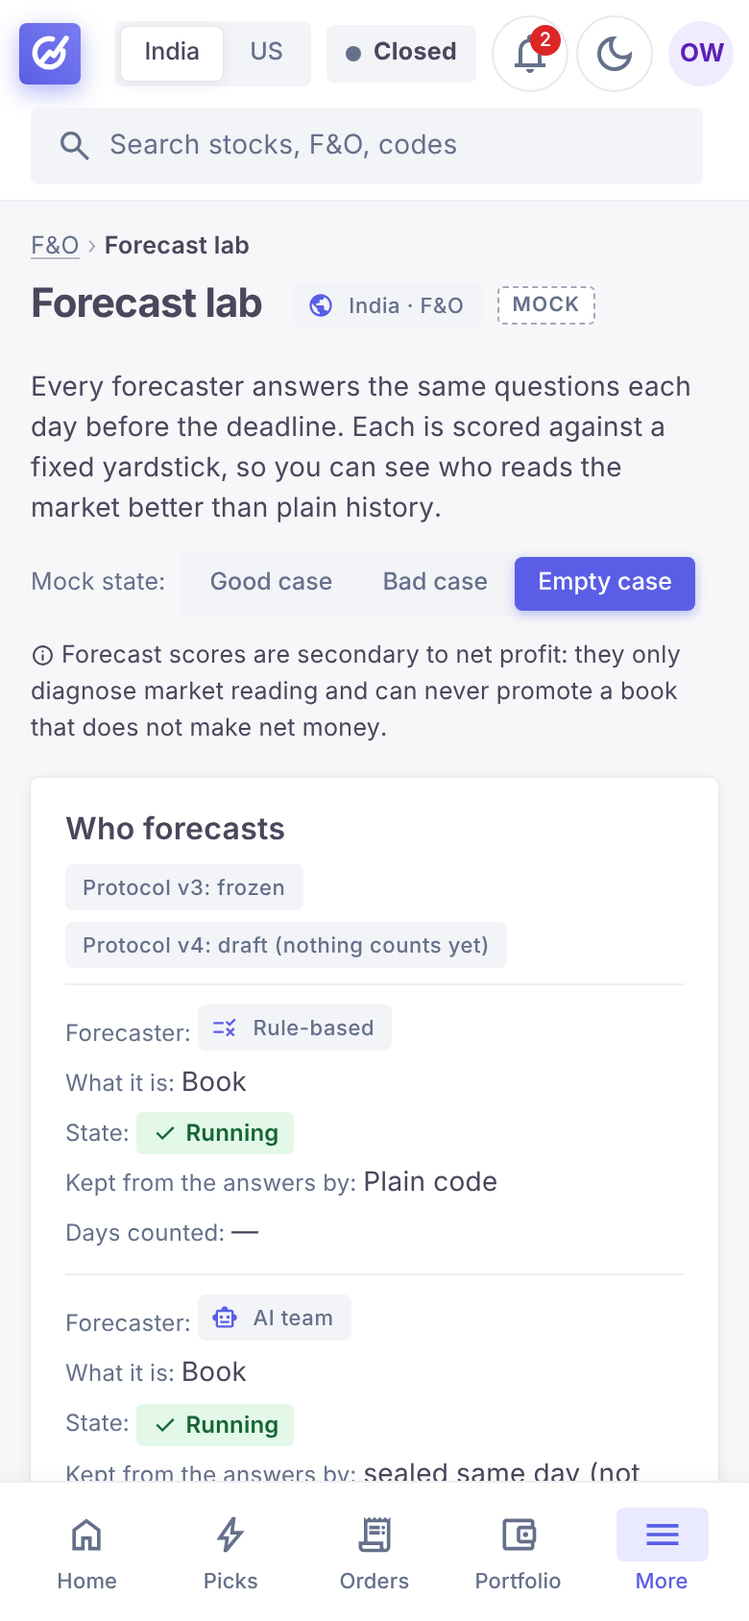
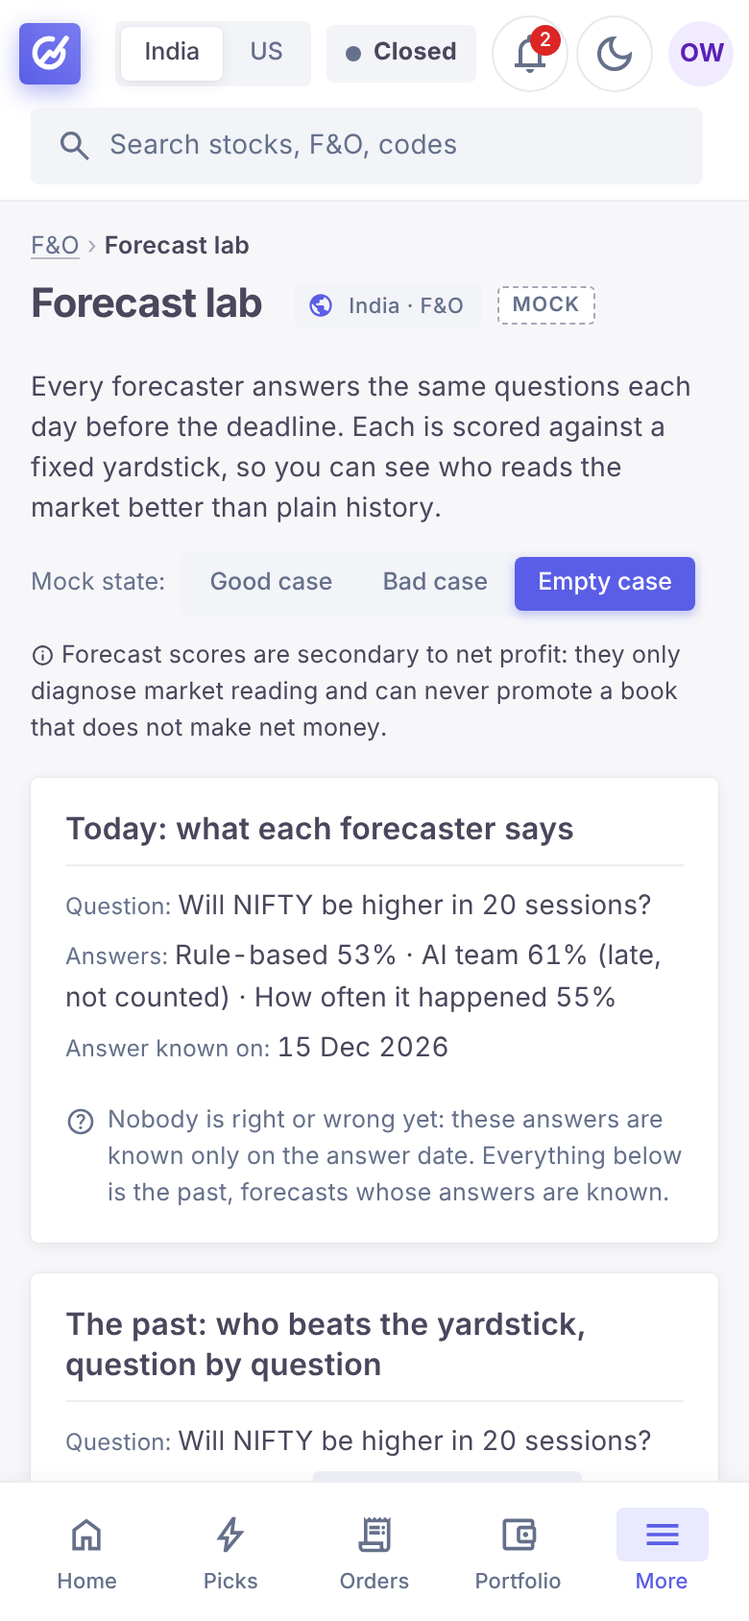
Mockup 37: bring back the owner's 13 Oct views the catalog can feed (judge 217 should-fix 2)
Today's forecasts on top and the past below; who beats the yardstick question by question; forecasters ranked within
each question; the test's numbers folded "for the curious". notes.md lists every 13 Oct request as kept, changed or
dropped (period chooser, race chart, "what made the difference": no contract field yet) with why, and a 2.9 proposal.

Claude-Session: https://claude.ai/code/session_01XFXpbkyixX7SuXeQCp5EnX

diff --git a/design/mockups/37-forecasts/page.html b/design/mockups/37-forecasts/page.html
@@ -2175,7 +2175,7 @@ return {mount, el, icon, svgEl, money, num, sgn, delta, P, st};
 </script>
 <script>
 /* 37-forecasts page runtime: the Forecast lab (forecasters, their questions and scores), drawn from the F&O data catalog's Mock
-   examples (contract 2.8.0; story W3). Split by purpose: 1 state and helpers, 2 the page, 9 mount.
+   examples (contract 2.8.0; story W3). Split by purpose: 1 state and helpers, 2 today, 3 who beats the yardstick, 4 each question, 5 the forecasters, 9 mount.
    The screen computes nothing beyond drawing: every figure is the payload's. Tokens only; never colour alone. */
 let KEY = null;
 /* URL: s (a state key of data.json); the default is the good case */
@@ -2212,26 +2212,38 @@ function srcLine(c, op, tip) {
     c.el('span', {class: 'mb-asof', 'data-tip': 'api/examples/fno-screens.json, operation ' + op}, c.icon('schedule'), 'F&O data catalog: ' + op),
     c.el('span', {class: 'mb-tag mock', 'data-tip': tip}, 'Mock: made up'));
 }
-/* The standing line, the protocols and the forecasters: who answers, how each is kept from seeing outcomes, and how
-   many days counted (a missing day is shown, never treated as zero skill). */
-const STATE = {running: ['success', 'check', 'Running'], not_running: ['neutral', 'timer', 'Not running'], not_started: ['neutral', 'remove', 'Not started']};
-const KIND = {family: 'Book', baseline: 'Yardstick', weather: 'Weather', house: 'The card\'s forecast'};
-function fname(id) { const f = pay().forecasters.find(x => x.id === id); return f ? f.name : id; }
-function forecastersPart(main, c) {
-  const {el} = c, P = pay();
-  main.append(el('p', {class: 'small', style: 'margin:12px 0 0'}, c.icon('info'), ' ', P.standing),
-    el('div', {class: 'stack'}, sec(c, 'Who forecasts', el('div', {class: 'chips'}, ...P.protocols.map(p => el('span', {class: 'md-chip small', 'data-tip': p.questions.join(', ')}, `Protocol ${p.version}: ${p.status === 'frozen' ? 'frozen' : 'draft (nothing counts yet)'}`))),
-      el('div', {class: 'md-table-wrap'}, el('table', {class: 'md-table tstack'},
-        el('thead', {}, el('tr', {}, ...['Forecaster', 'What it is', 'State', 'Kept from the answers by', 'Days counted'].map(h => el('th', {scope: 'col'}, h)))),
-        el('tbody', {}, ...P.forecasters.map(f => { const [cls, g, w] = STATE[f.status], v = f.coverage;
-          return el('tr', {}, el('td', {'data-k': 'Forecaster'}, f.family ? family(c, f.family) : f.name), el('td', {'data-k': 'What it is'}, KIND[f.kind]),
-            el('td', {'data-k': 'State'}, el('span', {class: 'mb-label ' + cls}, c.icon(g), w)),
-            el('td', {'data-k': 'Kept from the answers by'}, f.isolation === 'code' ? 'Plain code' : f.isolation_label || 'Full isolation'),
-            el('td', {'data-k': 'Days counted'}, v ? `${v.counted_days} of ${v.pack_days}` : '—', v ? el('small', {}, `${v.missing_days} missing · ${v.late_days} late · ${v.unscored_days} not scored`) : null)); })))),
-      howto(c, 'A late or missing forecast is not counted and is shown here, never filled in. "Sealed same day" means an AI book commits to its answer before the deadline; it is not full isolation.'))));
+/* Today's forecasts on top, the past below, each said plainly (owner, 13 Oct 2026, second feedback round). */
+function todayPart(main, c) {
+  const {el} = c, qs = pay().questions.filter(q => q.today);
+  main.append(el('div', {class: 'stack'}, sec(c, 'Today: what each forecaster says',
+    qs.length ? el('div', {class: 'md-table-wrap'}, el('table', {class: 'md-table tstack'},
+      el('thead', {}, el('tr', {}, ...['Question', 'Answers', 'Answer known on'].map(h => el('th', {scope: 'col'}, h)))),
+      el('tbody', {}, ...qs.map(q => el('tr', {}, el('td', {'data-k': 'Question'}, q.plain),
+        el('td', {'data-k': 'Answers'}, q.today.values.map(v => `${fname(v.forecaster)} ${answer(q, v)}${VSTATUS[v.status]}`).join(' · ')),
+        el('td', {'data-k': 'Answer known on'}, dlabel(q.today.answer_on))))))) : el('p', {class: 'empty muted'}, 'No forecast was made today.'),
+    howto(c, 'Nobody is right or wrong yet: these answers are known only on the answer date. Everything below is the past, forecasts whose answers are known.'))));
 }
-/* One card per question: today's answers, each forecaster's average miss score, the comparison against the yardstick
-   with its verdict, and when it could settle. Waiting and not-started questions say why. */
+/* Which forecaster beats the yardstick on which question (owner, 13 Oct 2026): one row per question, from the
+   backend's own verdicts. No rank across questions: Brier and QLIKE scores are on different scales. */
+function namesWith(S, verdict) { return S.comparisons.filter(m => m.verdict === verdict).map(m => fname(m.forecaster)); }
+function bestCell(c, S) {
+  const better = namesWith(S, 'better'), worse = namesWith(S, 'worse');
+  if (!S.comparisons.length) return c.el('span', {class: 'mb-label neutral'}, c.icon('timer'), 'Not tested yet');
+  return c.el('span', {}, better.length ? c.el('span', {class: 'mb-label success'}, c.icon('check'), 'Better: ' + better.join(', ')) : c.el('span', {class: 'mb-label neutral'}, c.icon('trending_flat'), 'Nobody better yet'),
+    worse.length ? c.el('small', {}, 'Worse: ' + worse.join(', ')) : null);
+}
+function bestPart(main, c) {
+  const {el} = c, qs = pay().questions.filter(q => q.scores);
+  main.append(el('div', {class: 'stack'}, sec(c, 'The past: who beats the yardstick, question by question',
+    qs.length ? el('div', {class: 'md-table-wrap'}, el('table', {class: 'md-table tstack'},
+      el('thead', {}, el('tr', {}, ...['Question', 'Against the yardstick', 'Yardstick'].map(h => el('th', {scope: 'col'}, h)))),
+      el('tbody', {}, ...qs.map(q => el('tr', {}, el('td', {'data-k': 'Question'}, q.plain), el('td', {'data-k': 'Against the yardstick'}, bestCell(c, q.scores)),
+        el('td', {'data-k': 'Yardstick'}, fname(q.primary_baseline))))))) : el('p', {class: 'empty muted'}, 'No question has a score yet.'),
+    howto(c, 'Each question has its own yardstick, fixed before any result. A forecaster is "better" only when the test says so over many days, not after one good week.'))));
+}
+/* One card per question (the past): forecasters ranked by their average miss score (best first, unscored last), the
+   comparison against the yardstick with its verdict, the official numbers folded away, and when it could settle.
+   Waiting and not-started questions say why. */
 const QSTATE = {scoring: ['success', 'check', 'Scoring'], waiting_for_data: ['warn', 'schedule', 'Waiting for data'], not_started: ['neutral', 'remove', 'Not started']};
 const VERDICT = {better: ['success', 'check', 'Better than the yardstick'], worse: ['danger', 'close', 'Worse than the yardstick'], no_difference: ['neutral', 'trending_flat', 'No clear difference'],
   futile: ['neutral', 'block', 'Cannot win: stop testing'], not_tested: ['neutral', 'timer', 'Not enough days yet'], before_review: ['neutral', 'event', 'Before its review date']};
@@ -2241,21 +2253,49 @@ function settle(s) {
   return s.status === 'not_measured' ? 'Too few days to say when it could settle (under 60).' : s.status === 'projected' ? `Could settle around ${dlabel(s.projected_date)}.`
     : `Would need until ${s.projected_date ? dlabel(s.projected_date) : 'more than 2 years'}: too long to wait.`;
 }
+function ranked(rows) { return [...rows].sort((a, b) => (a.mean_loss == null) - (b.mean_loss == null) || a.mean_loss - b.mean_loss); }
+function num(x, d) { return x == null ? '—' : x.toFixed(d); }
+/* the official statistics, folded away "for the curious" (owner, 13 Oct 2026) */
+function curious(c, q) {
+  const {el} = c;
+  return el('details', {class: 'small', style: 'margin-top:8px'}, el('summary', {}, 'For the curious: the test\'s numbers'),
+    el('ul', {style: 'margin:6px 0 0;padding-left:18px'}, ...q.scores.comparisons.map(m => el('li', {},
+      `${fname(m.forecaster)}: average difference ${num(m.mean_diff, 4)} (below zero favours it), likely range ${m.interval ? m.interval.map(x => x.toFixed(4)).join(' to ') : '—'}, p-value ${num(m.p_value, 3)}`))),
+    q.protocol === 'v4' ? el('p', {class: 'muted', style: 'margin:6px 0 0'}, 'Protocol v4 is not frozen yet: these numbers may change meaning when it is.') : null);
+}
 function questionCard(c, q) {
   const {el} = c, [cls, g, w] = QSTATE[q.status], S = q.scores;
   return el('section', {class: 'card sec q', 'aria-label': q.plain}, el('h2', {}, q.plain, el('span', {class: 'mb-label ' + cls}, c.icon(g), w), el('small', {}, `${q.id} · protocol ${q.protocol} · answer in ${q.horizon_sessions} session${q.horizon_sessions === 1 ? '' : 's'}`)),
     q.waiting_for.length ? el('ul', {class: 'small', style: 'margin:0 0 8px;padding-left:18px'}, ...q.waiting_for.map(m => el('li', {}, `${m.input} (${m.story}): ${m.detail}`))) : null,
-    q.today ? el('p', {class: 'small', style: 'margin:0 0 8px'}, el('b', {}, `Today (${dlabel(q.today.made_on)}): `), q.today.values.map(v => `${fname(v.forecaster)} ${answer(q, v)}${VSTATUS[v.status]}`).join(' · ')) : null,
     S && S.per_forecaster.length ? el('div', {class: 'md-table-wrap'}, el('table', {class: 'md-table tstack'},
-      el('thead', {}, el('tr', {}, ...['Forecaster', 'Days', 'Missing', `Average miss (${q.metric === 'brier' ? 'Brier' : 'QLIKE'}, lower is better)`].map(h => el('th', {scope: 'col'}, h)))),
-      el('tbody', {}, ...S.per_forecaster.map(p => el('tr', {}, el('td', {'data-k': 'Forecaster'}, fname(p.forecaster)), el('td', {class: 'md-numeric', 'data-k': 'Days'}, String(p.n)),
+      el('thead', {}, el('tr', {}, ...['Rank', 'Forecaster', 'Days', 'Missing', `Average miss (${q.metric === 'brier' ? 'Brier' : 'QLIKE'}, lower is better)`].map(h => el('th', {scope: 'col'}, h)))),
+      el('tbody', {}, ...ranked(S.per_forecaster).map((p, i) => el('tr', {}, el('td', {class: 'md-numeric', 'data-k': 'Rank'}, p.mean_loss == null ? '—' : String(i + 1)), el('td', {'data-k': 'Forecaster'}, fname(p.forecaster)), el('td', {class: 'md-numeric', 'data-k': 'Days'}, String(p.n)),
         el('td', {class: 'md-numeric', 'data-k': 'Missing'}, String(p.n_missing)), el('td', {class: 'md-numeric', 'data-k': 'Average miss'}, p.mean_loss == null ? '—' : p.mean_loss.toFixed(3))))))) : null,
     S && S.comparisons.length ? el('ul', {class: 'drivers', style: 'list-style:none;padding:0;margin:8px 0 0;display:grid;gap:6px'}, ...S.comparisons.map(m => { const [vc, vg, vw] = VERDICT[m.verdict];
       return el('li', {class: 'small'}, el('span', {class: 'mb-label ' + vc}, c.icon(vg), vw), ` ${fname(m.forecaster)} against ${fname(m.baseline)}, ${m.n_pairs} days compared`); })) : null,
+    S && S.comparisons.length ? curious(c, q) : null,
     S ? el('p', {class: 'small muted', style: 'margin:8px 0 0'}, settle(q.settle)) : null,
     howto(c, `The yardstick is ${fname(q.primary_baseline)}, fixed before any result was seen. "Better" needs the whole interval below zero, not one lucky month.`));
 }
 function questionsPart(main, c) { main.append(c.el('div', {class: 'stack'}, ...pay().questions.map(q => questionCard(c, q)))); }
+/* The standing line (first on the page), then, last, the protocols and the forecasters: who answers, how each is kept from seeing outcomes, and how
+   many days counted (a missing day is shown, never treated as zero skill). */
+const STATE = {running: ['success', 'check', 'Running'], not_running: ['neutral', 'timer', 'Not running'], not_started: ['neutral', 'remove', 'Not started']};
+const KIND = {family: 'Book', baseline: 'Yardstick', weather: 'Weather', house: 'The card\'s forecast'};
+function fname(id) { const f = pay().forecasters.find(x => x.id === id); return f ? f.name : id; }
+function standingPart(main, c) { main.append(c.el('p', {class: 'small', style: 'margin:12px 0 0'}, c.icon('info'), ' ', pay().standing)); }
+function forecastersPart(main, c) {
+  const {el} = c, P = pay();
+  main.append(el('div', {class: 'stack'}, sec(c, 'Who forecasts', el('div', {class: 'chips'}, ...P.protocols.map(p => el('span', {class: 'md-chip small', 'data-tip': p.questions.join(', ')}, `Protocol ${p.version}: ${p.status === 'frozen' ? 'frozen' : 'draft (nothing counts yet)'}`))),
+      el('div', {class: 'md-table-wrap'}, el('table', {class: 'md-table tstack'},
+        el('thead', {}, el('tr', {}, ...['Forecaster', 'What it is', 'State', 'Kept from the answers by', 'Days counted'].map(h => el('th', {scope: 'col'}, h)))),
+        el('tbody', {}, ...P.forecasters.map(f => { const [cls, g, w] = STATE[f.status], v = f.coverage;
+          return el('tr', {}, el('td', {'data-k': 'Forecaster'}, f.family ? family(c, f.family) : f.name), el('td', {'data-k': 'What it is'}, KIND[f.kind]),
+            el('td', {'data-k': 'State'}, el('span', {class: 'mb-label ' + cls}, c.icon(g), w)),
+            el('td', {'data-k': 'Kept from the answers by'}, f.isolation === 'code' ? 'Plain code' : f.isolation_label || 'Full isolation'),
+            el('td', {'data-k': 'Days counted'}, v ? `${v.counted_days} of ${v.pack_days}` : '—', v ? el('small', {}, `${v.missing_days} missing · ${v.late_days} late · ${v.unscored_days} not scored`) : null)); })))),
+      howto(c, 'A late or missing forecast is not counted and is shown here, never filled in. "Sealed same day" means an AI book commits to its answer before the deadline; it is not full isolation.'))));
+}
 /* Mount last: every function and state the render uses is defined by now (files 1-3). */
 PF.mount({screen: 'forecasts', group: 'strategies', strip: false, dataLabel: 'Mock examples from the F&O data catalog (story P1)',
   readHash(h) { KEY = h.get('s') in D.states ? h.get('s') : null; PF.st.wlOff = h.get('wloff') !== '0'; },
@@ -2263,7 +2303,7 @@ PF.mount({screen: 'forecasts', group: 'strategies', strip: false, dataLabel: 'Mo
   render(main, c) {
     if (!c.P.fno) { location.replace('../31-dashboard/page.html#m=' + c.m); return; }   /* India only: absent in the US */
     topPart(main, c, 'Forecast lab', 'Forecast lab', 'Every forecaster answers the same questions each day before the deadline. Each is scored against a fixed yardstick, so you can see who reads the market better than plain history.', false);
-    forecastersPart(main, c); questionsPart(main, c);
+    standingPart(main, c); todayPart(main, c); bestPart(main, c); questionsPart(main, c); forecastersPart(main, c);
     main.append(srcLine(c, 'getFnoForecastLab', 'Every number is made up.'));
   }});
 

diff --git a/design/mockups/37-forecasts/js/4-questions.js b/design/mockups/37-forecasts/js/4-questions.js
@@ -1,5 +1,6 @@
-/* One card per question: today's answers, each forecaster's average miss score, the comparison against the yardstick
-   with its verdict, and when it could settle. Waiting and not-started questions say why. */
+/* One card per question (the past): forecasters ranked by their average miss score (best first, unscored last), the
+   comparison against the yardstick with its verdict, the official numbers folded away, and when it could settle.
+   Waiting and not-started questions say why. */
 const QSTATE = {scoring: ['success', 'check', 'Scoring'], waiting_for_data: ['warn', 'schedule', 'Waiting for data'], not_started: ['neutral', 'remove', 'Not started']};
 const VERDICT = {better: ['success', 'check', 'Better than the yardstick'], worse: ['danger', 'close', 'Worse than the yardstick'], no_difference: ['neutral', 'trending_flat', 'No clear difference'],
   futile: ['neutral', 'block', 'Cannot win: stop testing'], not_tested: ['neutral', 'timer', 'Not enough days yet'], before_review: ['neutral', 'event', 'Before its review date']};
@@ -9,17 +10,27 @@ function settle(s) {
   return s.status === 'not_measured' ? 'Too few days to say when it could settle (under 60).' : s.status === 'projected' ? `Could settle around ${dlabel(s.projected_date)}.`
     : `Would need until ${s.projected_date ? dlabel(s.projected_date) : 'more than 2 years'}: too long to wait.`;
 }
+function ranked(rows) { return [...rows].sort((a, b) => (a.mean_loss == null) - (b.mean_loss == null) || a.mean_loss - b.mean_loss); }
+function num(x, d) { return x == null ? '—' : x.toFixed(d); }
+/* the official statistics, folded away "for the curious" (owner, 13 Oct 2026) */
+function curious(c, q) {
+  const {el} = c;
+  return el('details', {class: 'small', style: 'margin-top:8px'}, el('summary', {}, 'For the curious: the test\'s numbers'),
+    el('ul', {style: 'margin:6px 0 0;padding-left:18px'}, ...q.scores.comparisons.map(m => el('li', {},
+      `${fname(m.forecaster)}: average difference ${num(m.mean_diff, 4)} (below zero favours it), likely range ${m.interval ? m.interval.map(x => x.toFixed(4)).join(' to ') : '—'}, p-value ${num(m.p_value, 3)}`))),
+    q.protocol === 'v4' ? el('p', {class: 'muted', style: 'margin:6px 0 0'}, 'Protocol v4 is not frozen yet: these numbers may change meaning when it is.') : null);
+}
 function questionCard(c, q) {
   const {el} = c, [cls, g, w] = QSTATE[q.status], S = q.scores;
   return el('section', {class: 'card sec q', 'aria-label': q.plain}, el('h2', {}, q.plain, el('span', {class: 'mb-label ' + cls}, c.icon(g), w), el('small', {}, `${q.id} · protocol ${q.protocol} · answer in ${q.horizon_sessions} session${q.horizon_sessions === 1 ? '' : 's'}`)),
     q.waiting_for.length ? el('ul', {class: 'small', style: 'margin:0 0 8px;padding-left:18px'}, ...q.waiting_for.map(m => el('li', {}, `${m.input} (${m.story}): ${m.detail}`))) : null,
-    q.today ? el('p', {class: 'small', style: 'margin:0 0 8px'}, el('b', {}, `Today (${dlabel(q.today.made_on)}): `), q.today.values.map(v => `${fname(v.forecaster)} ${answer(q, v)}${VSTATUS[v.status]}`).join(' · ')) : null,
     S && S.per_forecaster.length ? el('div', {class: 'md-table-wrap'}, el('table', {class: 'md-table tstack'},
-      el('thead', {}, el('tr', {}, ...['Forecaster', 'Days', 'Missing', `Average miss (${q.metric === 'brier' ? 'Brier' : 'QLIKE'}, lower is better)`].map(h => el('th', {scope: 'col'}, h)))),
-      el('tbody', {}, ...S.per_forecaster.map(p => el('tr', {}, el('td', {'data-k': 'Forecaster'}, fname(p.forecaster)), el('td', {class: 'md-numeric', 'data-k': 'Days'}, String(p.n)),
+      el('thead', {}, el('tr', {}, ...['Rank', 'Forecaster', 'Days', 'Missing', `Average miss (${q.metric === 'brier' ? 'Brier' : 'QLIKE'}, lower is better)`].map(h => el('th', {scope: 'col'}, h)))),
+      el('tbody', {}, ...ranked(S.per_forecaster).map((p, i) => el('tr', {}, el('td', {class: 'md-numeric', 'data-k': 'Rank'}, p.mean_loss == null ? '—' : String(i + 1)), el('td', {'data-k': 'Forecaster'}, fname(p.forecaster)), el('td', {class: 'md-numeric', 'data-k': 'Days'}, String(p.n)),
         el('td', {class: 'md-numeric', 'data-k': 'Missing'}, String(p.n_missing)), el('td', {class: 'md-numeric', 'data-k': 'Average miss'}, p.mean_loss == null ? '—' : p.mean_loss.toFixed(3))))))) : null,
     S && S.comparisons.length ? el('ul', {class: 'drivers', style: 'list-style:none;padding:0;margin:8px 0 0;display:grid;gap:6px'}, ...S.comparisons.map(m => { const [vc, vg, vw] = VERDICT[m.verdict];
       return el('li', {class: 'small'}, el('span', {class: 'mb-label ' + vc}, c.icon(vg), vw), ` ${fname(m.forecaster)} against ${fname(m.baseline)}, ${m.n_pairs} days compared`); })) : null,
+    S && S.comparisons.length ? curious(c, q) : null,
     S ? el('p', {class: 'small muted', style: 'margin:8px 0 0'}, settle(q.settle)) : null,
     howto(c, `The yardstick is ${fname(q.primary_baseline)}, fixed before any result was seen. "Better" needs the whole interval below zero, not one lucky month.`));
 }

diff --git a/design/mockups/37-forecasts/js/5-forecasters.js b/design/mockups/37-forecasts/js/5-forecasters.js
@@ -1,12 +1,12 @@
-/* The standing line, the protocols and the forecasters: who answers, how each is kept from seeing outcomes, and how
+/* The standing line (first on the page), then, last, the protocols and the forecasters: who answers, how each is kept from seeing outcomes, and how
    many days counted (a missing day is shown, never treated as zero skill). */
 const STATE = {running: ['success', 'check', 'Running'], not_running: ['neutral', 'timer', 'Not running'], not_started: ['neutral', 'remove', 'Not started']};
 const KIND = {family: 'Book', baseline: 'Yardstick', weather: 'Weather', house: 'The card\'s forecast'};
 function fname(id) { const f = pay().forecasters.find(x => x.id === id); return f ? f.name : id; }
+function standingPart(main, c) { main.append(c.el('p', {class: 'small', style: 'margin:12px 0 0'}, c.icon('info'), ' ', pay().standing)); }
 function forecastersPart(main, c) {
   const {el} = c, P = pay();
-  main.append(el('p', {class: 'small', style: 'margin:12px 0 0'}, c.icon('info'), ' ', P.standing),
-    el('div', {class: 'stack'}, sec(c, 'Who forecasts', el('div', {class: 'chips'}, ...P.protocols.map(p => el('span', {class: 'md-chip small', 'data-tip': p.questions.join(', ')}, `Protocol ${p.version}: ${p.status === 'frozen' ? 'frozen' : 'draft (nothing counts yet)'}`))),
+  main.append(el('div', {class: 'stack'}, sec(c, 'Who forecasts', el('div', {class: 'chips'}, ...P.protocols.map(p => el('span', {class: 'md-chip small', 'data-tip': p.questions.join(', ')}, `Protocol ${p.version}: ${p.status === 'frozen' ? 'frozen' : 'draft (nothing counts yet)'}`))),
       el('div', {class: 'md-table-wrap'}, el('table', {class: 'md-table tstack'},
         el('thead', {}, el('tr', {}, ...['Forecaster', 'What it is', 'State', 'Kept from the answers by', 'Days counted'].map(h => el('th', {scope: 'col'}, h)))),
         el('tbody', {}, ...P.forecasters.map(f => { const [cls, g, w] = STATE[f.status], v = f.coverage;

diff --git a/design/mockups/37-forecasts/js/3-best.js b/design/mockups/37-forecasts/js/3-best.js
@@ -1,0 +1,18 @@
+/* Which forecaster beats the yardstick on which question (owner, 13 Oct 2026): one row per question, from the
+   backend's own verdicts. No rank across questions: Brier and QLIKE scores are on different scales. */
+function namesWith(S, verdict) { return S.comparisons.filter(m => m.verdict === verdict).map(m => fname(m.forecaster)); }
+function bestCell(c, S) {
+  const better = namesWith(S, 'better'), worse = namesWith(S, 'worse');
+  if (!S.comparisons.length) return c.el('span', {class: 'mb-label neutral'}, c.icon('timer'), 'Not tested yet');
+  return c.el('span', {}, better.length ? c.el('span', {class: 'mb-label success'}, c.icon('check'), 'Better: ' + better.join(', ')) : c.el('span', {class: 'mb-label neutral'}, c.icon('trending_flat'), 'Nobody better yet'),
+    worse.length ? c.el('small', {}, 'Worse: ' + worse.join(', ')) : null);
+}
+function bestPart(main, c) {
+  const {el} = c, qs = pay().questions.filter(q => q.scores);
+  main.append(el('div', {class: 'stack'}, sec(c, 'The past: who beats the yardstick, question by question',
+    qs.length ? el('div', {class: 'md-table-wrap'}, el('table', {class: 'md-table tstack'},
+      el('thead', {}, el('tr', {}, ...['Question', 'Against the yardstick', 'Yardstick'].map(h => el('th', {scope: 'col'}, h)))),
+      el('tbody', {}, ...qs.map(q => el('tr', {}, el('td', {'data-k': 'Question'}, q.plain), el('td', {'data-k': 'Against the yardstick'}, bestCell(c, q.scores)),
+        el('td', {'data-k': 'Yardstick'}, fname(q.primary_baseline))))))) : el('p', {class: 'empty muted'}, 'No question has a score yet.'),
+    howto(c, 'Each question has its own yardstick, fixed before any result. A forecaster is "better" only when the test says so over many days, not after one good week.'))));
+}

diff --git a/design/mockups/37-forecasts/js/2-today.js b/design/mockups/37-forecasts/js/2-today.js
@@ -1,0 +1,11 @@
+/* Today's forecasts on top, the past below, each said plainly (owner, 13 Oct 2026, second feedback round). */
+function todayPart(main, c) {
+  const {el} = c, qs = pay().questions.filter(q => q.today);
+  main.append(el('div', {class: 'stack'}, sec(c, 'Today: what each forecaster says',
+    qs.length ? el('div', {class: 'md-table-wrap'}, el('table', {class: 'md-table tstack'},
+      el('thead', {}, el('tr', {}, ...['Question', 'Answers', 'Answer known on'].map(h => el('th', {scope: 'col'}, h)))),
+      el('tbody', {}, ...qs.map(q => el('tr', {}, el('td', {'data-k': 'Question'}, q.plain),
+        el('td', {'data-k': 'Answers'}, q.today.values.map(v => `${fname(v.forecaster)} ${answer(q, v)}${VSTATUS[v.status]}`).join(' · ')),
+        el('td', {'data-k': 'Answer known on'}, dlabel(q.today.answer_on))))))) : el('p', {class: 'empty muted'}, 'No forecast was made today.'),
+    howto(c, 'Nobody is right or wrong yet: these answers are known only on the answer date. Everything below is the past, forecasts whose answers are known.'))));
+}

diff --git a/design/mockups/37-forecasts/js/9-mount.js b/design/mockups/37-forecasts/js/9-mount.js
@@ -5,6 +5,6 @@ PF.mount({screen: 'forecasts', group: 'strategies', strip: false, dataLabel: 'Mo
   render(main, c) {
     if (!c.P.fno) { location.replace('../31-dashboard/page.html#m=' + c.m); return; }   /* India only: absent in the US */
     topPart(main, c, 'Forecast lab', 'Forecast lab', 'Every forecaster answers the same questions each day before the deadline. Each is scored against a fixed yardstick, so you can see who reads the market better than plain history.', false);
-    forecastersPart(main, c); questionsPart(main, c);
+    standingPart(main, c); todayPart(main, c); bestPart(main, c); questionsPart(main, c); forecastersPart(main, c);
     main.append(srcLine(c, 'getFnoForecastLab', 'Every number is made up.'));
   }});

diff --git a/design/mockups/37-forecasts/js/1-base.js b/design/mockups/37-forecasts/js/1-base.js
@@ -1,5 +1,5 @@
 /* 37-forecasts page runtime: the Forecast lab (forecasters, their questions and scores), drawn from the F&O data catalog's Mock
-   examples (contract 2.8.0; story W3). Split by purpose: 1 state and helpers, 2 the page, 9 mount.
+   examples (contract 2.8.0; story W3). Split by purpose: 1 state and helpers, 2 today, 3 who beats the yardstick, 4 each question, 5 the forecasters, 9 mount.
    The screen computes nothing beyond drawing: every figure is the payload's. Tokens only; never colour alone. */
 let KEY = null;
 /* URL: s (a state key of data.json); the default is the good case */

diff --git a/design/mockups/37-forecasts/notes.md b/design/mockups/37-forecasts/notes.md
@@ -5,6 +5,29 @@ the screen is built by the W3 builder in `web/`, the page by P2b). It replaces t
 data (`_platform/forecast_data.py`, removed) and "proposed contract" the
 catalog's `FnoForecastLab` superseded. India only, F&O only: absent in the US market.
 
+## The owner's 13 Oct 2026 requests: kept, changed or dropped (judge 217 should-fix 2)
+
+The replaced third draft (13 Oct, before contract 2.x) was built from two rounds of the owner's feedback on its own
+made-up data. The rebuild draws only what `FnoForecastLab` carries. Each request:
+
+| Owner's request (13 Oct) | Now | Why |
+|---|---|---|
+| Call it a lab, not a contest | **Kept** ("Forecast lab") | |
+| Plain language everywhere; plain question names | **Kept** | Question names are the payload's `plain` text; labels are plain words |
+| Today's predictions on top, the past below, saying which is which | **Kept** | "Today: what each forecaster says" (with each answer date), then "The past" |
+| Which family is best at which prediction | **Kept** | One row per question from the backend's own verdicts against its yardstick |
+| Overall ranked cards | **Changed**: ranked within each question, no rank across questions | The questions use different miss scores (Brier for chances, QLIKE for move sizes); ranking across them would add unlike numbers. Reasoning only |
+| Official statistics folded away "for the curious" | **Kept** | Per question, folded: average difference, likely range, p-value; v4 marked not frozen |
+| Say how long it runs | **Changed**: per question, when it could settle | `settle` gives a projected date per question, not one end date for the lab |
+| Who wins and loses and why; costliest mistakes as sentences ("what made the difference" story cards) | **Dropped for now** | The contract has no per-day forecasts with their outcomes; inventing them on screen would be made-up data. Needs a new field |
+| A period you choose (last week to since the start, or picked dates), its table and the race chart; one line graph of all families by day | **Dropped for now** | The contract has scores since the start only, no per-day or per-period series. Needs a new field |
+
+**To bring back the dropped two** (proposal, owner's call; reasoning only): a 2.9 addition of (1) a per-question,
+per-forecaster series of the running average miss score by session (the race chart and the period chooser), and (2)
+the last few settled forecasts with their outcomes (the "costliest mistakes" sentences). Both come from records the
+backend keeps (G4 scores, the forecast records); both are public-safe (answers and outcomes, never a rule). Not added
+in 2.8.0 because the orchestrator scoped 2.8 to the W3 pages and P2 would have to build them.
+
 ## Data used
 
 | State (URL `#s=`) | Case | Source |

diff --git a/design/mockups/37-forecasts/rationale.md b/design/mockups/37-forecasts/rationale.md
@@ -2,10 +2,14 @@
 
 - **The standing first:** forecasts diagnose market reading and never promote a book, so that line sits above
   everything.
-- **Who forecasts, then each question.** The forecaster table shows how each is kept from the answers (plain code,
-  sealed same day) and its days counted, so a beginner sees whose record is complete before reading any score.
-- **One card per question:** today's answers, each forecaster's average miss score, then the verdict against the fixed
-  yardstick as a label with its glyph and word (never colour alone), then when it could settle.
+- **Today on top, the past below** (owner, 13 Oct): today's answers with their answer dates first, said to be
+  unknown yet; then, as the past, who beats the yardstick question by question.
+- **One card per question:** forecasters ranked by average miss score (best first; no rank across questions, as the
+  miss scores differ), the verdict against the fixed yardstick as a label with its glyph and word (never colour
+  alone), the test's numbers folded "for the curious", then when it could settle.
+- **Who forecasts, last:** how each is kept from the answers (plain code, sealed same day) and its days counted.
+- What the owner asked for on 13 Oct and is not here yet (period chooser, race chart, "what made the difference"):
+  `notes.md`, with why and what would bring it back.
 - **Every state is labelled Mock**; the source line names the catalog operation.
 - Checks: `check_page.js` per state at 1280 and 390 px (no console errors, no external requests, no overflow);
   `check_text.js`: 0 findings. Screenshots: `shot-<state>-1280-full`, `-390-full`, `-390-viewport`.
